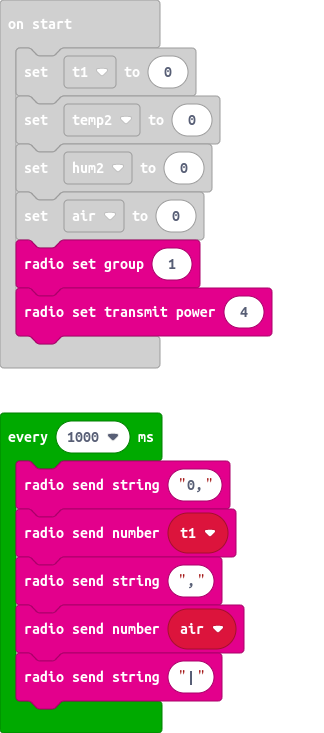
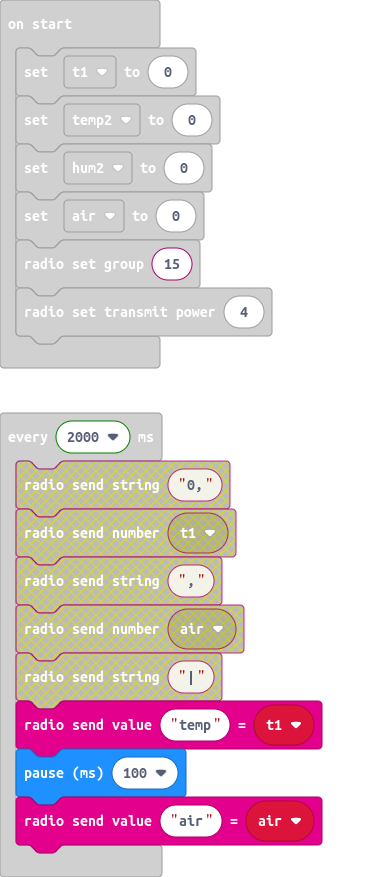
Rf setup changed

diff --git a/main.ts b/main.ts
@@ -6,7 +6,7 @@ let t1 = 0
 let temp2 = 0
 let hum2 = 0
 let air = 0
-radio.setGroup(1)
+radio.setGroup(15)
 radio.setTransmitPower(4)
 loops.everyInterval(1000, function () {
     dht11_dht22.queryData(
@@ -22,14 +22,12 @@ loops.everyInterval(1000, function () {
     }
 })
 loops.everyInterval(1000, function () {
-    radio.sendString("0,")
-    radio.sendNumber(t1)
-    radio.sendString(",")
-    radio.sendNumber(air)
-    radio.sendString("|")
-})
-loops.everyInterval(1000, function () {
     air = pins.analogReadPin(AnalogPin.P1)
+})
+loops.everyInterval(2000, function () {
+    radio.sendValue("temp", t1)
+    basic.pause(100)
+    radio.sendValue("air", air)
 })
 basic.forever(function () {
     t1_error = 0
